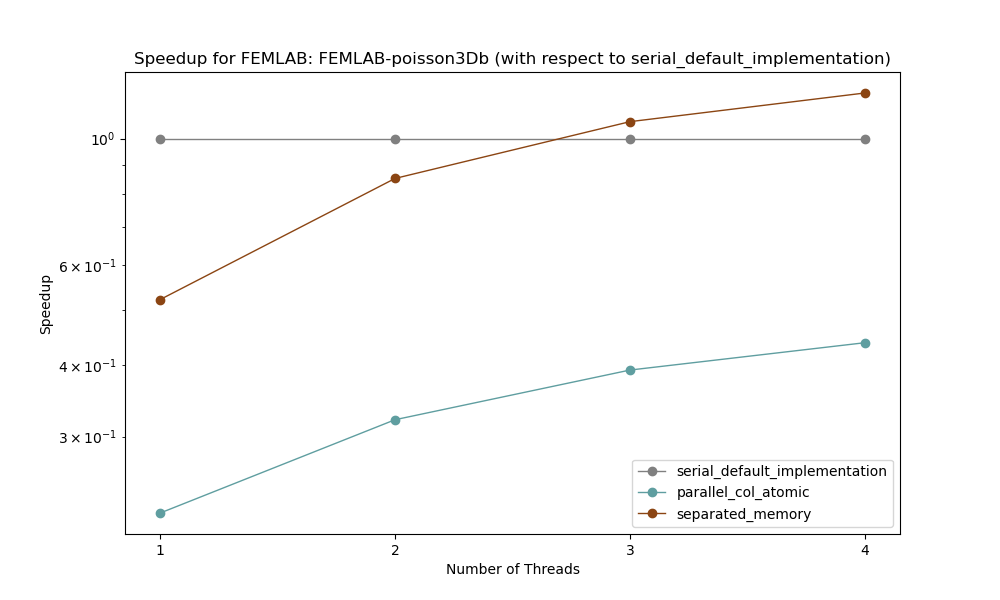
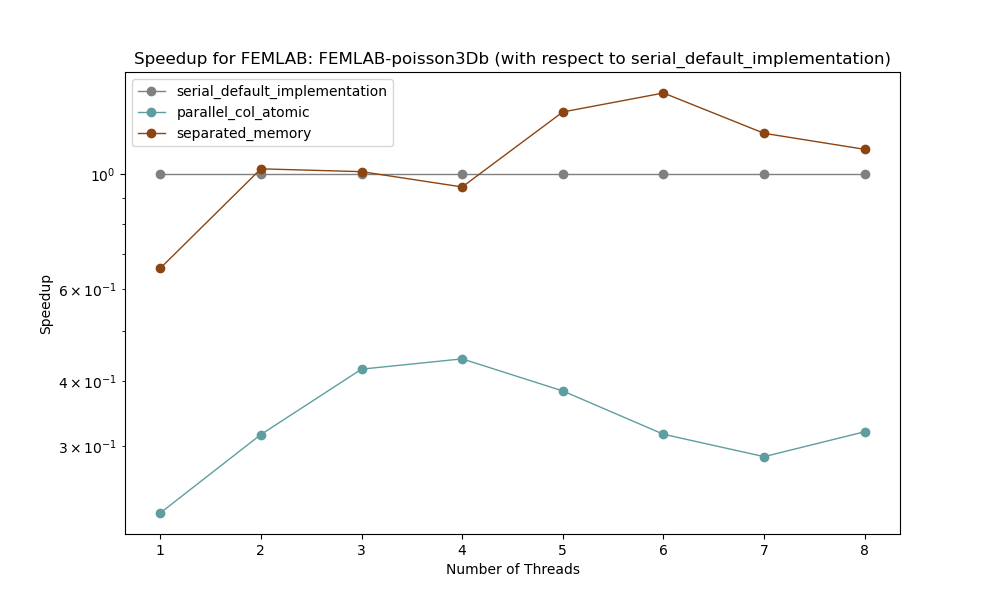
Plot result

diff --git a/parallel/spmv/graph.py b/parallel/spmv/graph.py
@@ -8,7 +8,7 @@ SPEEDUP_FOLDER = "speedup"
 RUNTIME_FOLDER = "runtime"
 RESULTS_FOLDER = "results"
 
-NTHREADS = [i + 1 for i in range(4)]
+NTHREADS = [i + 1 for i in range(8)]
 
 DEFAULT_METHOD = "serial_default_implementation"
 METHODS = [
